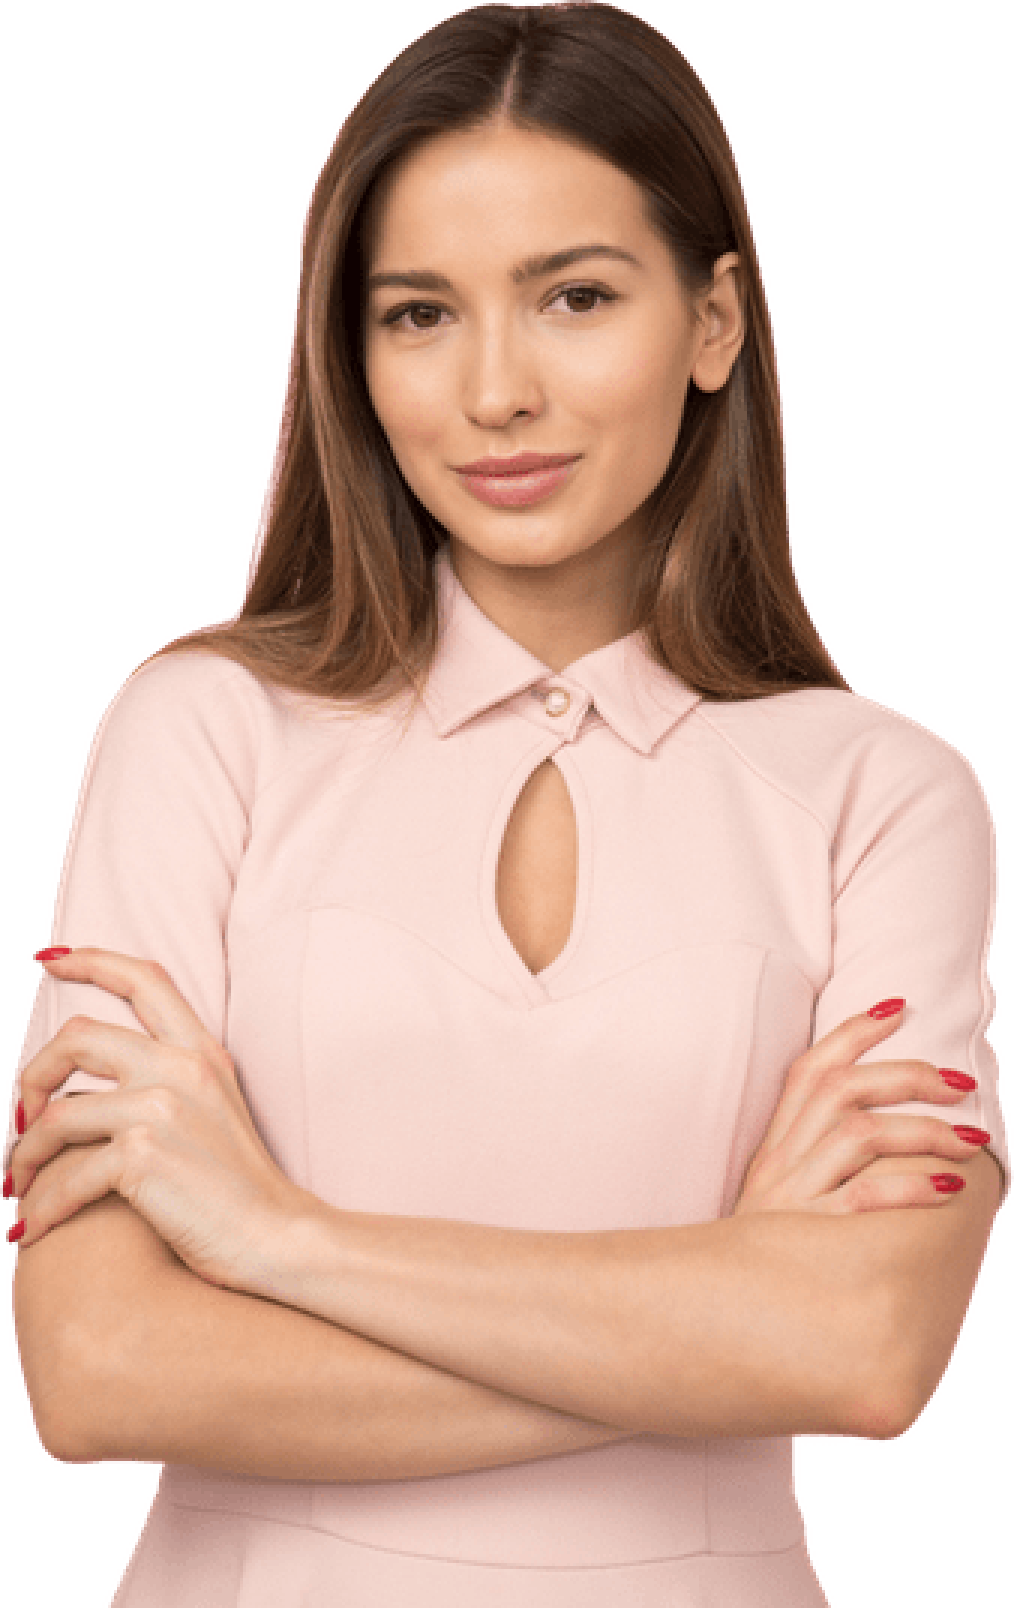
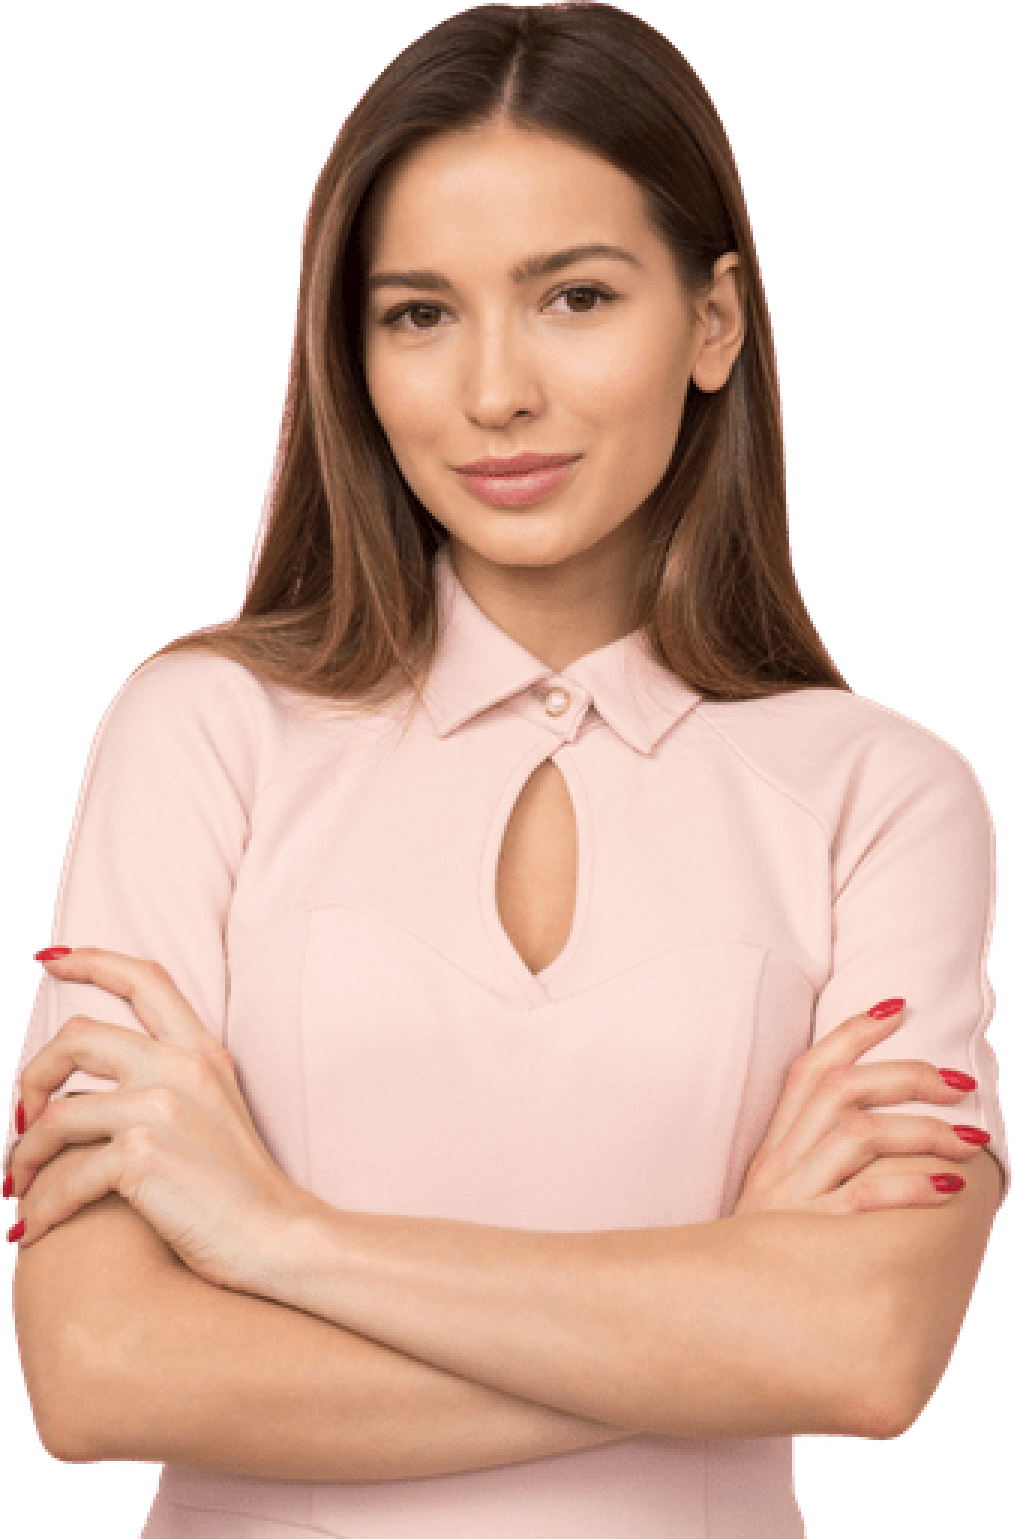
Fully Completed

diff --git a/style.css b/style.css
@@ -80,14 +80,16 @@ p{
 
 .about-img{
     width: 52%;
+    height: 52%;
     display: block;
-    margin: 10% auto 0 auto;
+    margin: 0 auto 0  auto !important;
     padding: 0;
 }
 .about-me{
     background: url(images/shapes/7.png) no-repeat;
+    background-color: #FEF3EC;
     max-height: 500px;
-    background-size: 100%;
+    background-size: cover;
     align-items: center;
     justify-content: space-between;
     overflow: hidden;
